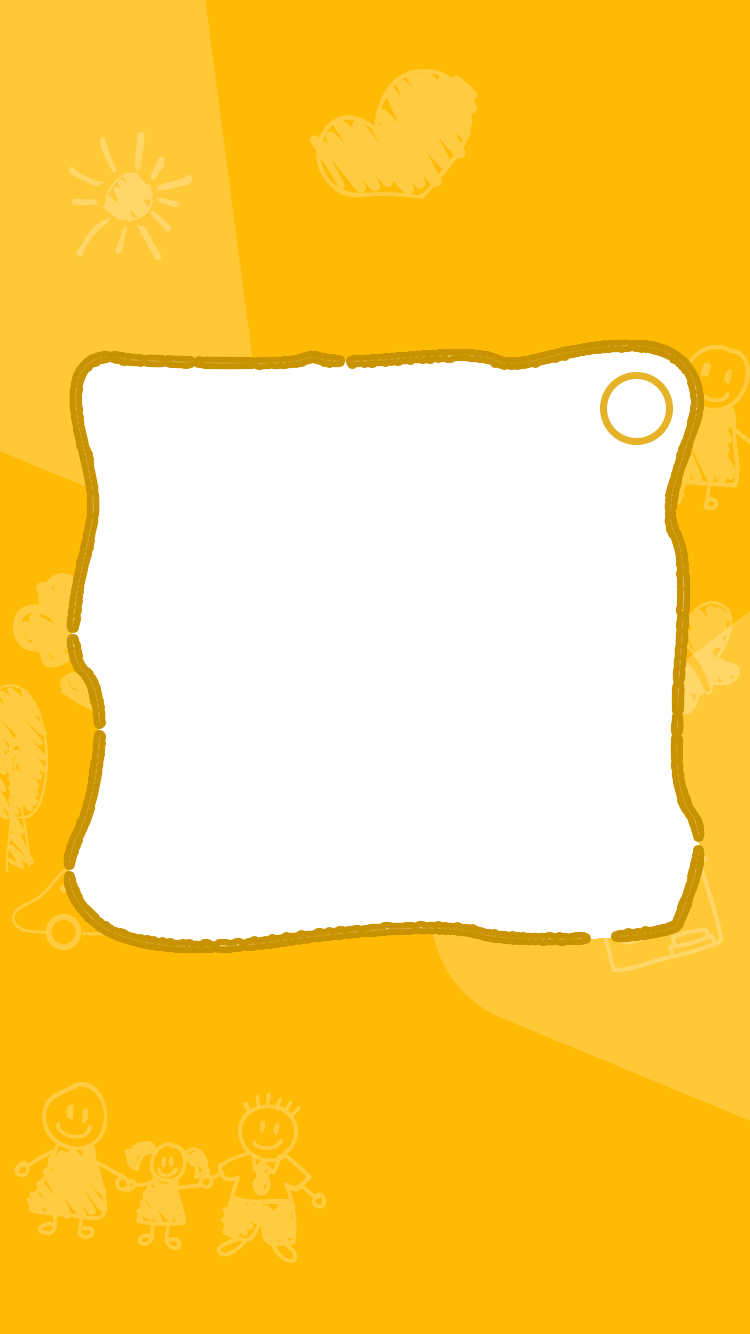
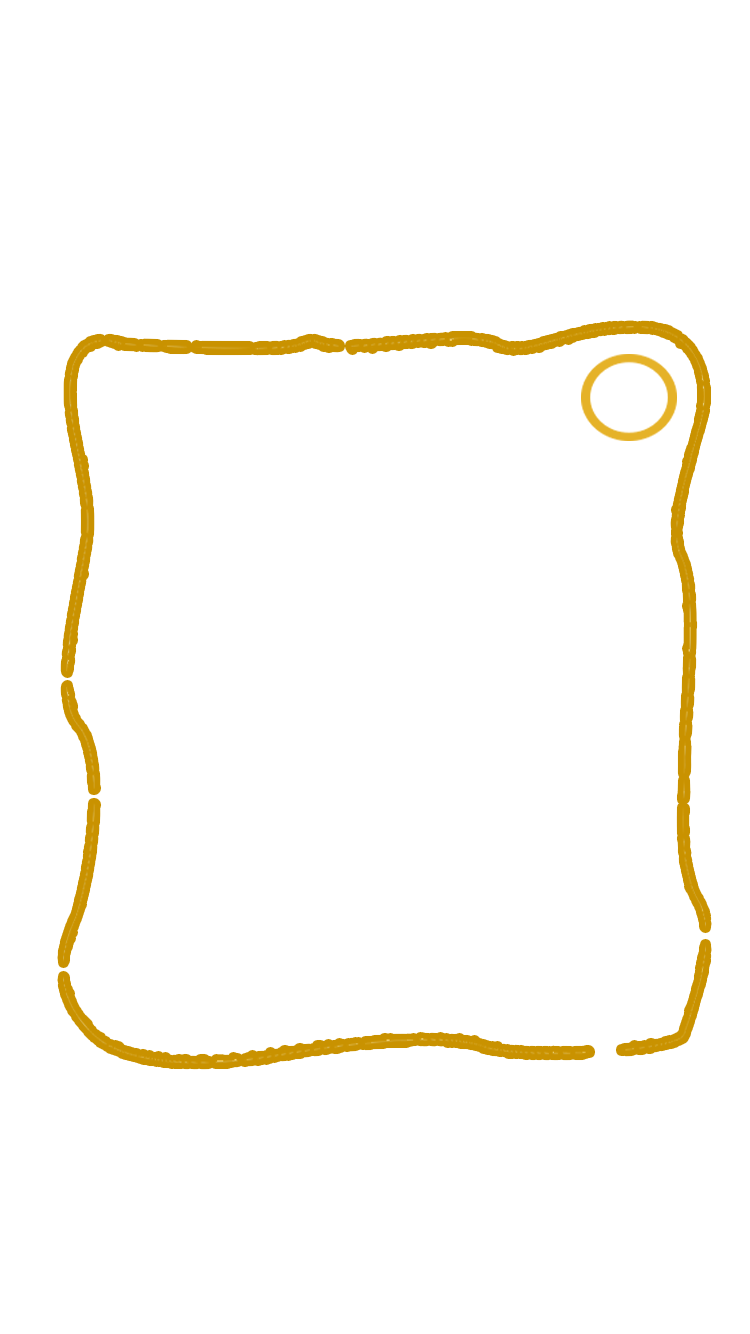
Fixed GamePlay panel's UI problem
Not done yet, still need to add more details

diff --git a/BaileyDemo/core/src/com/mygdx/game/GameScreen.java b/BaileyDemo/core/src/com/mygdx/game/GameScreen.java
@@ -11,6 +11,7 @@ import com.badlogic.gdx.graphics.PixmapIO;
 import com.badlogic.gdx.graphics.Texture;
 import com.badlogic.gdx.graphics.g2d.BitmapFont;
 import com.badlogic.gdx.graphics.g2d.Sprite;
+import com.badlogic.gdx.graphics.g2d.SpriteBatch;
 import com.badlogic.gdx.graphics.g2d.TextureRegion;
 import com.badlogic.gdx.graphics.glutils.ShapeRenderer;
 import com.badlogic.gdx.scenes.scene2d.Actor;
@@ -46,6 +47,9 @@ public class GameScreen extends ScreenAdapter {
 
     private BitmapFont font;
     private BitmapFont fontLarge;
+
+    private BitmapFont dbfont;
+    private BitmapFont dbSmallFont;
 
     private Texture annoyed;
     private Texture hearteye;
@@ -113,6 +117,7 @@ public class GameScreen extends ScreenAdapter {
     private Texture tex;
     private Image image;
     private TextureRegion region;
+    private SpriteBatch batch;
 
     public GameScreen(MultipleScenes game) {
         this.game = game;
@@ -198,6 +203,7 @@ public class GameScreen extends ScreenAdapter {
         turnLength = Float.valueOf(game.getGameLobby().getTurnTimer());
 
         stage = new Stage(new ScreenViewport());
+
         //Adding Background IMG
 //        tex = new Texture(Gdx.files.internal("image/gameplaytest.png"));
 //        region = new TextureRegion(tex,0,0,750,1334);
@@ -205,6 +211,10 @@ public class GameScreen extends ScreenAdapter {
 //        image.setPosition(0,0);
 //        image.setSize(360 * (Gdx.graphics.getWidth() / 360),750 * (Gdx.graphics.getHeight() / 640));
 //        stage.addActor(image);
+
+        //Adding Background (new)
+        tex = new Texture(Gdx.files.internal("image/gameplay.png"));
+        batch = new SpriteBatch();
 
         gameMode = game.getGameLobby().getGameMode();
         System.out.println("gamemode = "+gameMode);
@@ -220,6 +230,13 @@ public class GameScreen extends ScreenAdapter {
         font.setColor(Color.BLACK);
         fontLarge = new BitmapFont(Gdx.files.internal("font/font.fnt"), Gdx.files.internal("font/font.png"), false);
         fontLarge.setColor(Color.BLACK);
+
+        dbfont = new BitmapFont(Gdx.files.internal("font/dbfont.fnt"),
+                Gdx.files.internal("font/dbfont.png"), false);
+        dbfont.setColor(Color.BLACK);
+        dbSmallFont = new BitmapFont(Gdx.files.internal("font/dbSmallFont.fnt"),
+                Gdx.files.internal("font/dbSmallFont.png"), false);
+        dbSmallFont.setColor(Color.BLACK);
 
 
         shapeRenderer = new ShapeRenderer();
@@ -406,6 +423,9 @@ public class GameScreen extends ScreenAdapter {
 
         Gdx.gl.glClearColor(1.0f, 1.0f, 1.0f, 1);
         Gdx.gl.glClear(GL20.GL_COLOR_BUFFER_BIT);
+        batch.begin();
+        batch.draw(tex,0,0,360,750);
+        batch.end();
 
         //If the WebSocket is open (connected) then process the game controller logic
         if (game.getSocket().isOpen()) {
@@ -529,14 +549,17 @@ public class GameScreen extends ScreenAdapter {
             if (!gameFinished) {
                 if (myTurn) {
                     String temp = "";
+                    String temp_time = "";
                     if(gameMode.matches("Regular")) {
-                        temp = "Drawing Topic: " + game.getGameLobby().getWordTopic() + "\nYour turn to draw! " + (Math.round(turnLength - turnTimer));
+                        temp = "Drawing Topic: " + game.getGameLobby().getWordTopic() + "\nYour turn to draw! ";
+                        temp_time = ""+ (Math.round(turnLength - turnTimer));
                     }
                     else{
                         temp = "Drawing Topic: " + game.getGameLobby().getWordTopic() + "\nYour turn to draw!\nOne line mode..";
                     }
                     String temp2 = "\nReceived: " + received + "\nSent: " + sent + "\nDrawn amount = :" + drawnAmount;
                     fontLarge.draw(game.getBatch(), temp, Gdx.graphics.getWidth() / 2 - 165, Gdx.graphics.getHeight() - 10);
+                    dbSmallFont.draw(game.getBatch(), temp_time, Gdx.graphics.getWidth() / 2 + 130, Gdx.graphics.getHeight() - 125);
                  //   font.draw(game.getBatch(), temp2, 0, 200);
                     if(gameMode.matches("Regular")) {
                         if (turnTimer >= turnLength) {
@@ -547,15 +570,17 @@ public class GameScreen extends ScreenAdapter {
                     }
                 } else {
                     String temp = "";
-
+                    String temp_time = "";
                     if(gameMode.matches("Regular")) {
-                        temp = "Drawing Topic: " + game.getGameLobby().getWordTopic() + "\nYour partner is drawing!" + (Math.round(turnLength - turnTimer));
+                        temp = "Drawing Topic: " + game.getGameLobby().getWordTopic() + "\nYour partner is drawing!";
+                        temp_time = ""+ (Math.round(turnLength - turnTimer));
                     }
                     else{
                         temp = "Drawing Topic: " + game.getGameLobby().getWordTopic() + "\nYour partner is drawing!\nOne line mode..";
                     }
                     String temp2 = "\nReceived: " + received + "\nSent: " + sent + "\nDrawn amount = :" + drawnAmount;
                     fontLarge.draw(game.getBatch(), temp, Gdx.graphics.getWidth() / 2 - 165, Gdx.graphics.getHeight() - 10);
+                    dbSmallFont.draw(game.getBatch(), temp_time, Gdx.graphics.getWidth() / 2 + 130, Gdx.graphics.getHeight() - 125);
                     // font.draw(game.getBatch(), temp2, 0, 200);
                 }
             }

diff --git a/BaileyDemo/core/src/com/mygdx/game/HomeScreen.java b/BaileyDemo/core/src/com/mygdx/game/HomeScreen.java
@@ -239,6 +239,7 @@ public class HomeScreen extends ScreenAdapter {
             public void clicked(InputEvent event, float x, float y) {
                 moveToMatchmaking = true;
                 SoundManager.button.play();
+//                game.setScreen(new QuickPlayMenu(game));
             }
         });
 
